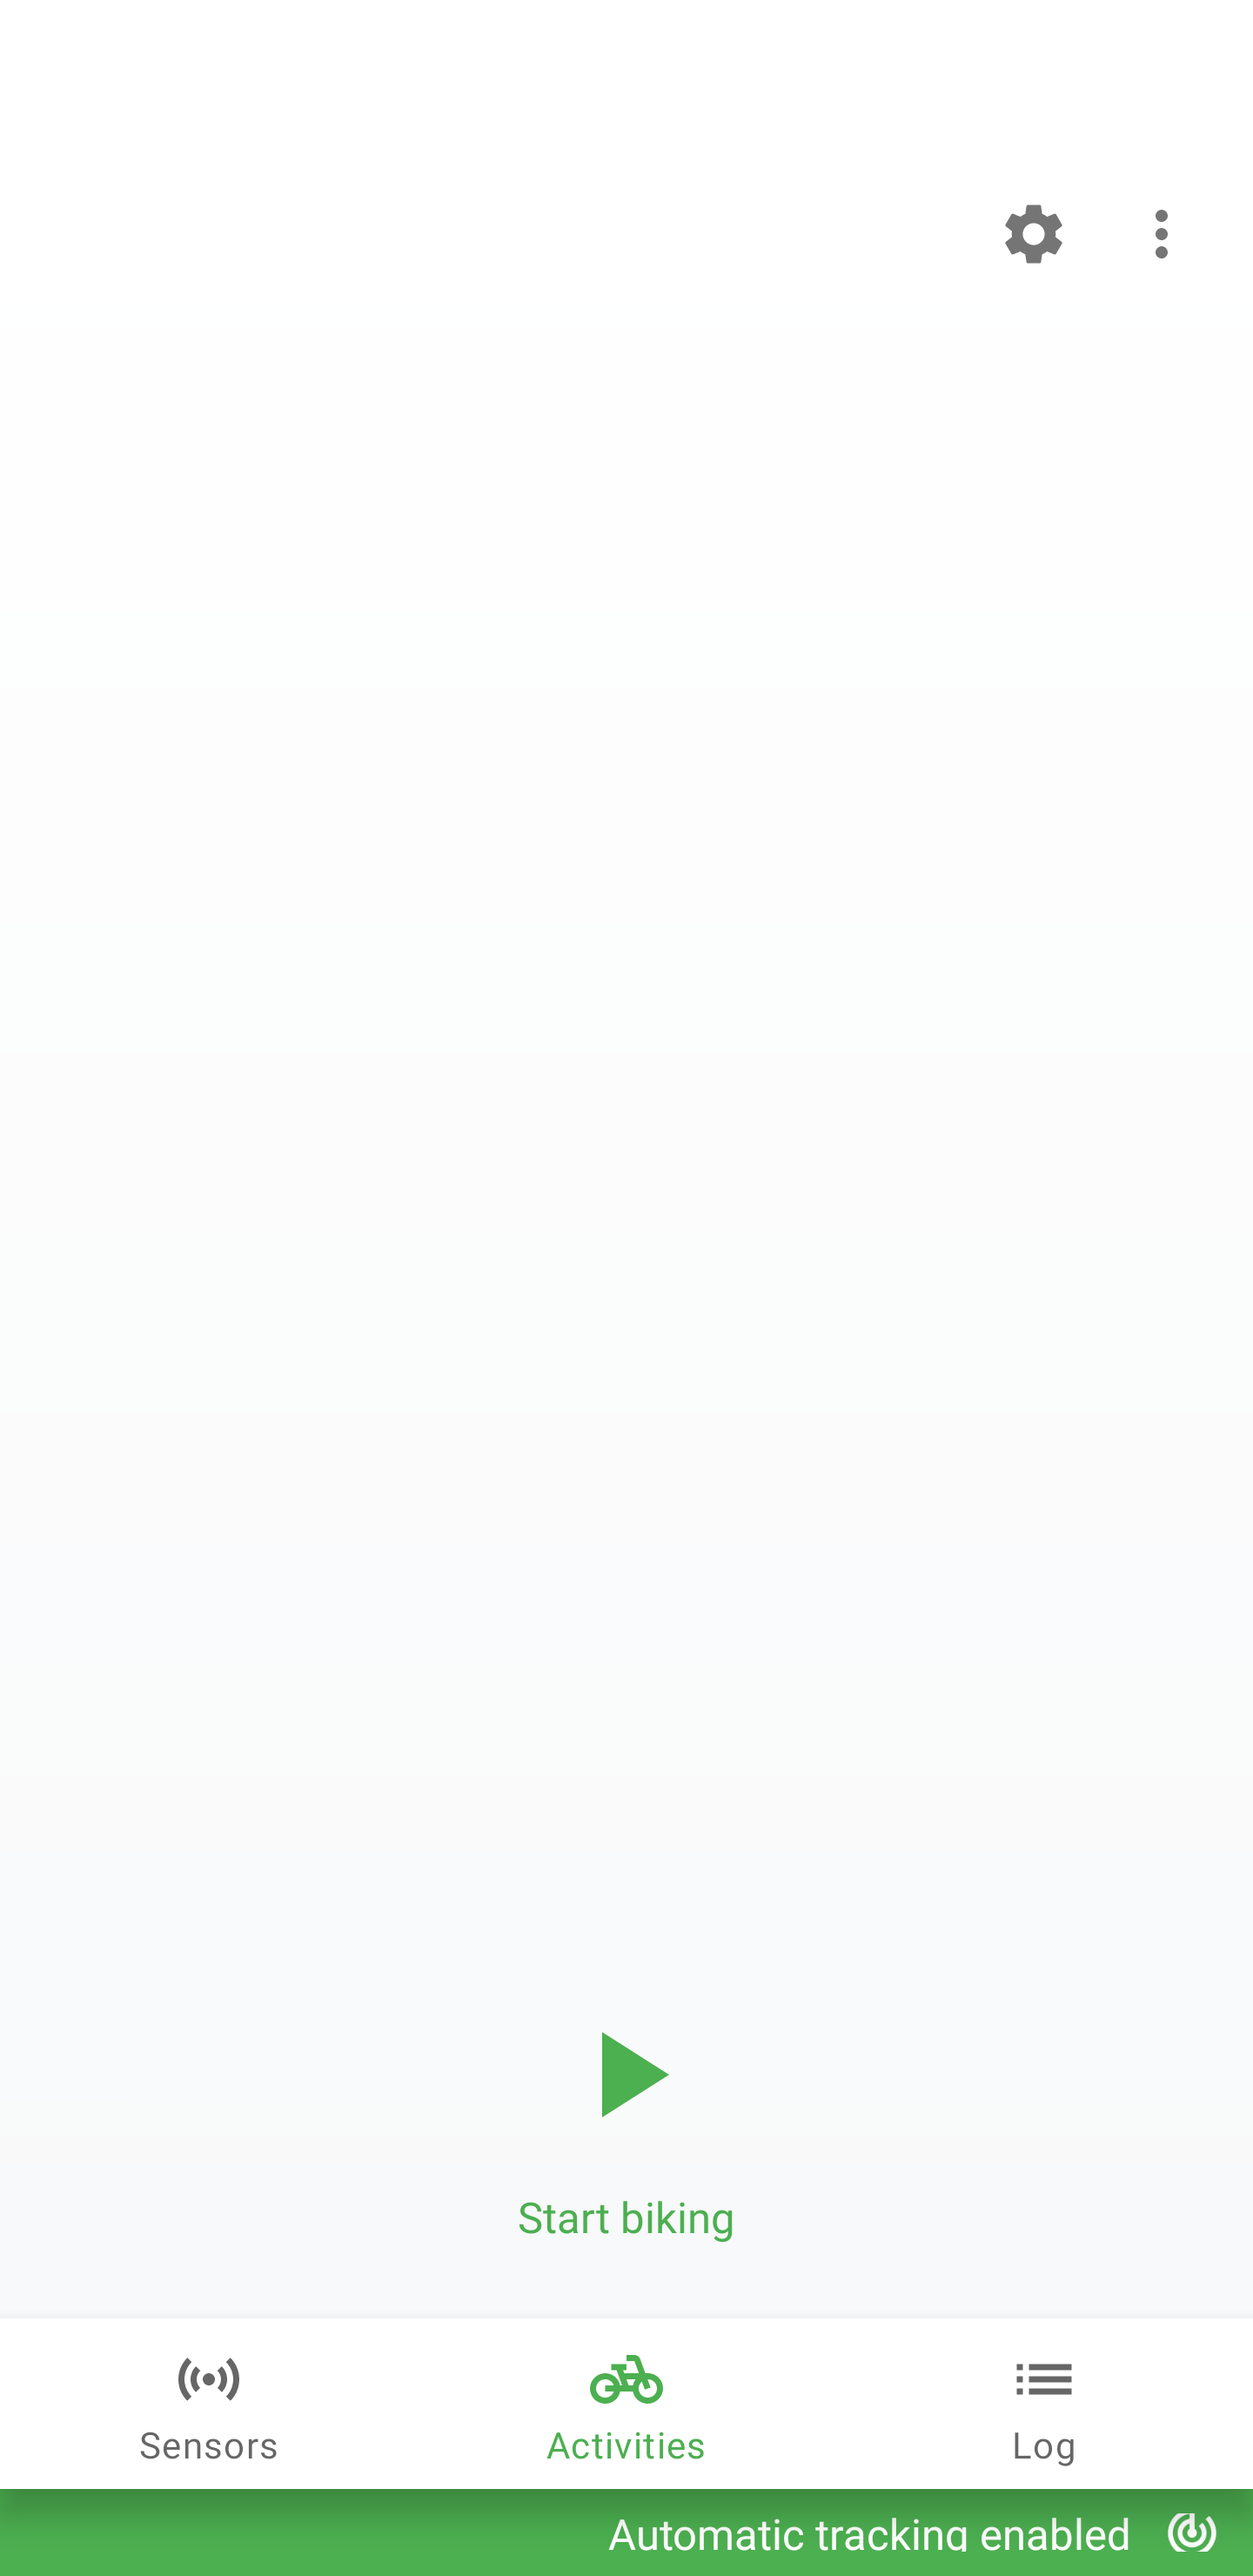
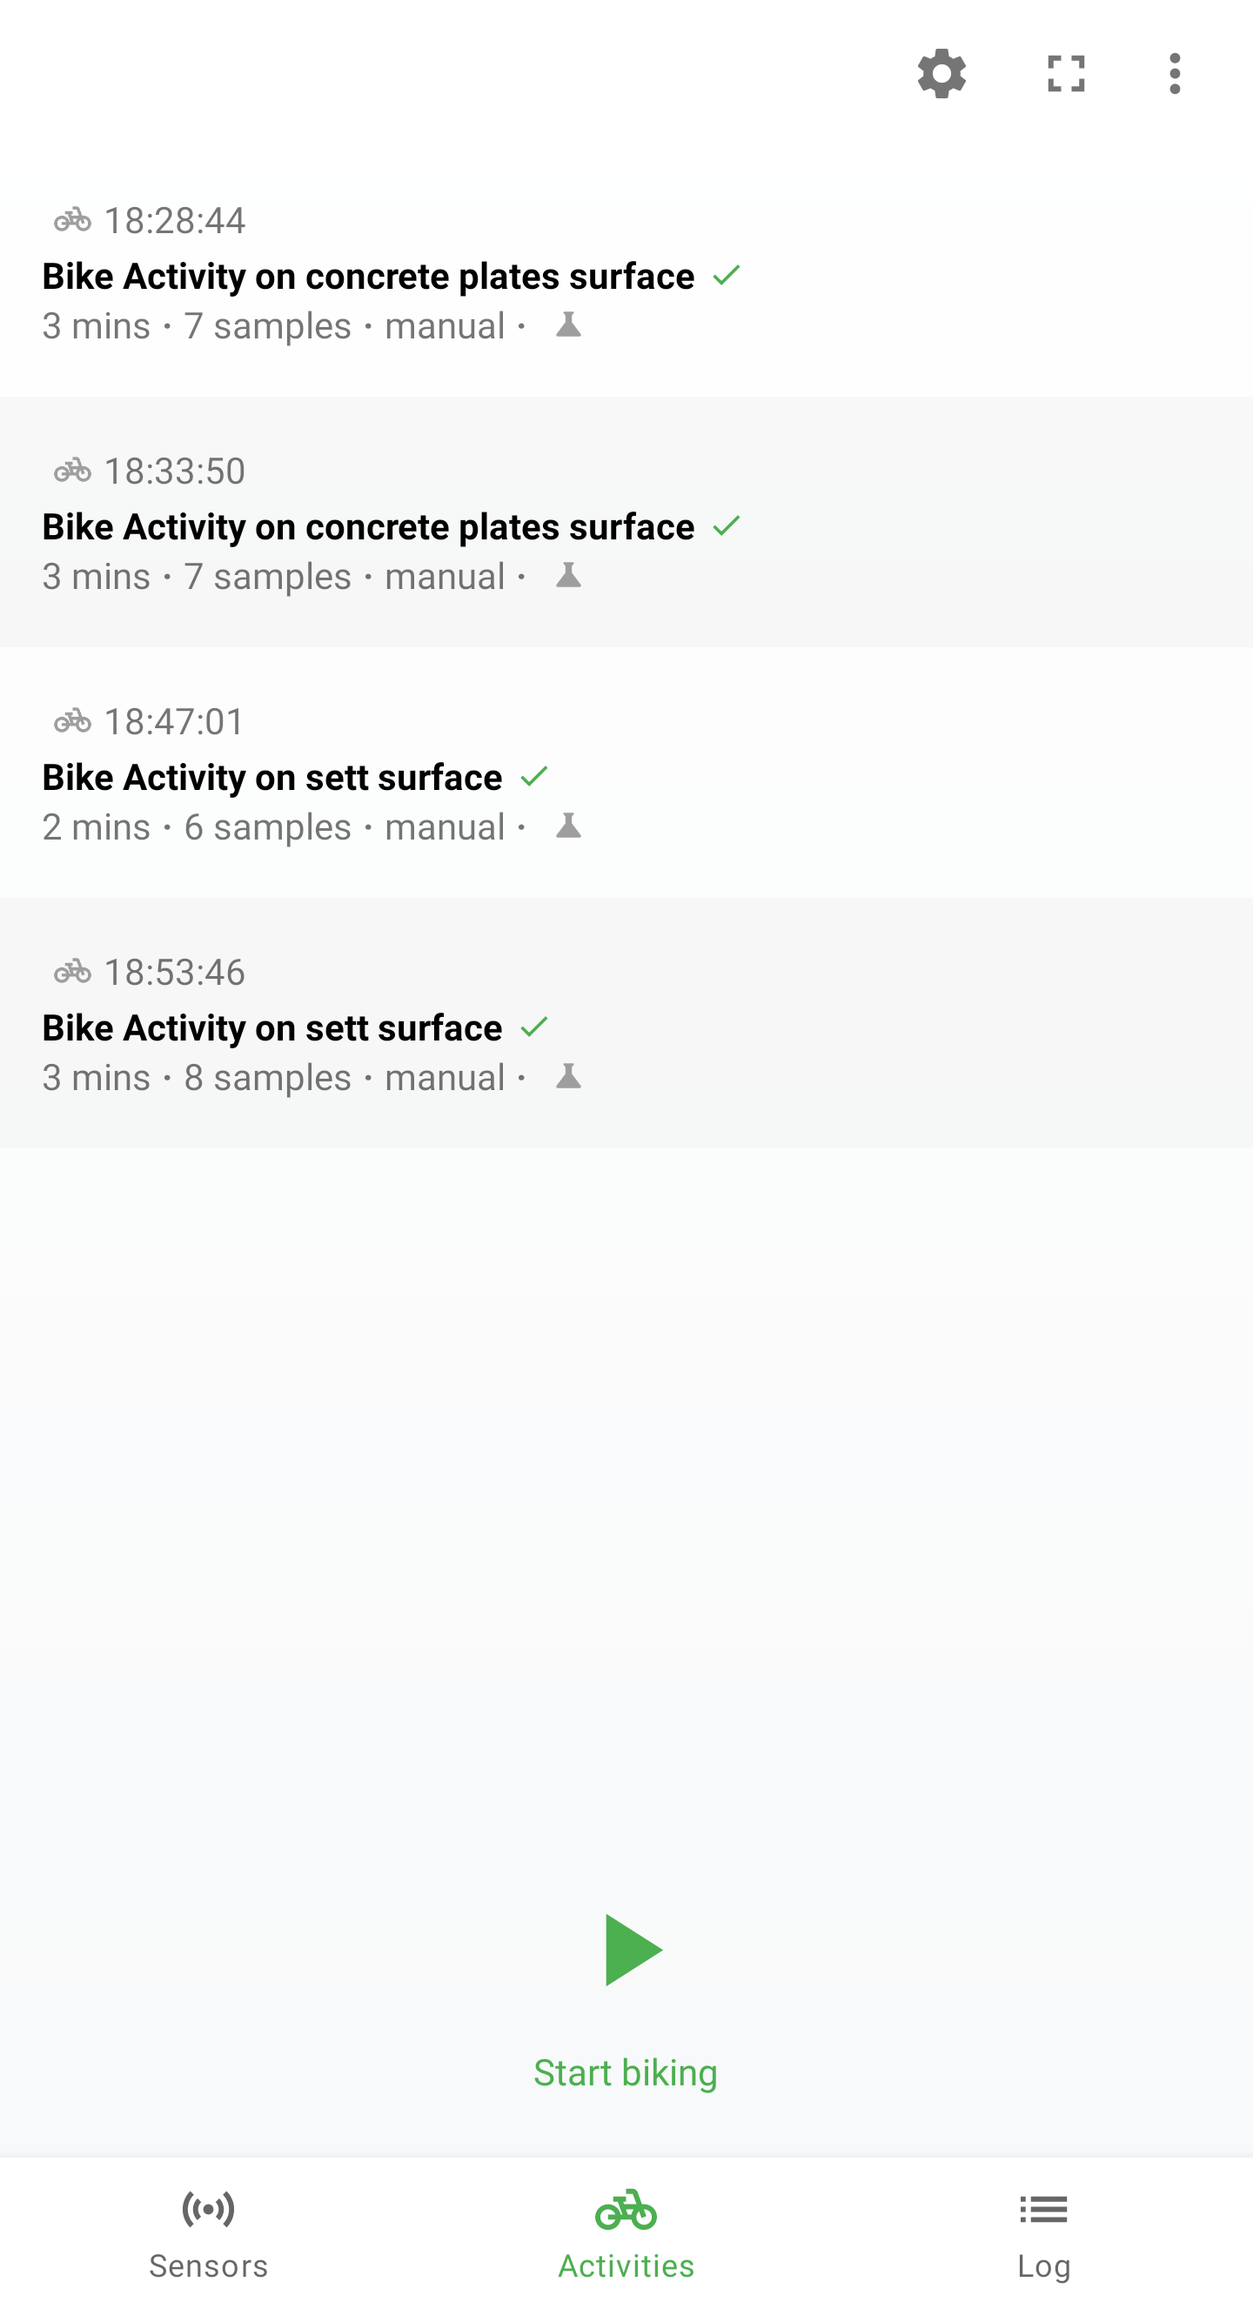
docs: update screenshots

diff --git a/README.md b/README.md
@@ -57,46 +57,48 @@ There are two ways to install the app - from the bundled releases and from your 
 
 ## Usage
 
-On first start-up of the app you will be prompted to give permission to track location and activity transition (this is used for _automatic tracking mode_). Click _CONTINUE_ in both cases and allow both _while using the app_. After that you will see the main screen.
+On first start-up of the app you will be prompted to give permission to track location and activity transition (this is used for _automatic tracking mode_). Click _CONTINUE_ in both cases and allow both _while using the app_. After that you will see the main screen. 
+From the main screen other screens like the _sensors screen_ and the _log screen_ can be reached by swiping left or right. The _settings screen_ is displayed after clicking the settings icon in the menu.
 
 <img src=".screenshots/screenshot-01-permission-location.png" width="300">  |  <img src=".screenshots/screenshot-02-permission-activity-transitions.png" width="300">  |  <img src=".screenshots/screenshot-03-main-screen.png" width="300">
 :-------------------------:|:-------------------------:|:-------------------------:
 Permission rationale location | Permission rationale activity transition | Main screen
 
+Both sensors screen and log screen can help you understand measured values and actions performed by the app.
+On the sensors screen currently measured values are displayed. The log screen displays logging information about the app status. In the settings screen you can define preferred phone position and bike type. Furthermore you can decide whether tracking shall be started and stopped automatically. Also measurement intervals and sample sizes can be specified.
 The app can track biking data in two modes
-* **automatic tracking** <sup>experimental</sup> will automatically start and stop bike activity tracking when you start or stop riding a bike 
-* **manual tracking** allows you to start and stop a bike activity whenever you want (this will disable automatic tracking)
+* **automatic tracking** <sup>experimental</sup> will automatically start and stop bike activity tracking when you start or stop riding a bike
+* **manual tracking** allows you to start and stop a bike activity whenever you want
 
-You can switch between the two modes in the settings menu which you can reach by clicking on the gear symbol in the top right corner.
-
-* Start a bike activity (either automatically by starting to ride a bike if you used automatic tracking or manually by clicking the play button) which will add an entry for the ongoing tracking to the activity list
-
-> **Important:** in order to train the model pure data is needed. Try to ride on one surface type only when tracking a bike activity. Stop and restart the activity tracking when you switch the surface type. (Later you can set the surface type for each sample individually which might become cumbersome if you need to do it for too many samples) 
-
-* Stop the bike activity (either by stopping to ride your bike if you used automatic tracking and/or by clicking the stop button)
-
-<img src=".screenshots/screenshot-04-settings.png" width="300">  |  <img src=".screenshots/screenshot-05-ongoing-activity.png" width="300">  |  <img src=".screenshots/screenshot-06-completed-activity.png" width="300">
+<img src=".screenshots/screenshot-04-sensors.png" width="300">  |  <img src=".screenshots/screenshot-05-log.png" width="300">  |  <img src=".screenshots/screenshot-06-settings.png" width="300">
 :-------------------------:|:-------------------------:|:-------------------------:
-Settings screen | Ongoing activity tracking | Completed activity tracking
+Sensors screen | Log screen | Settings screen
 
-* Click on an activity in the list to get to the activity details screen in which you can see your bike activity on a map and a list of tracked samples
-* Click on any sample in the list to highlight it on the map
-* Next to a highlighted sample the _surface type_ icon appears which lets you set the surface type for an individual sample
+On the main screen you can can start manual tracking by clicking the green arrow button. 
 
-<img src=".screenshots/screenshot-07-activity-details.png" width="300">  |  <img src=".screenshots/screenshot-08-activity-sample-highlight.png" width="300">
+> **Important:** in order to train the model pure data is needed. Try to ride on one surface type only when tracking a bike activity. Stop and restart the activity tracking when you switch the surface type. (Later you can set the surface type for each sample individually which might become cumbersome if you need to do it for too many samples)
+
+In order to ensure a safe right without distractions you can switch to head-up mode by clicking on the square icon in the menu.
+In head-up mode your current speed, the current bumpiness of the surface and the collected samples are displayed. 
+The color of the screen indicates how bumpy the surface currently is.
+You can return from head-up mode and start or stop tracking by using the buttons on the bottom.
+
+<img src=".screenshots/screenshot-07-hud-smooth.png" width="300">  |  <img src=".screenshots/screenshot-08-hud-intermediate.png" width="300">  |  <img src=".screenshots/screenshot-09-hud-rough.png" width="300">
+:-------------------------:|:-------------------------:|:-------------------------:
+HUD screen with smooth surface | HUD screen with intermediate surface | HUD screen with rough surface
+
+Once you completed the tracking of a bike activity you can see the details by clicking on its list entry on the main screen. From here you can specify the surface type and the smoothness type of the bike activity. Phone position and bike type are prefilled with the values you specified in the settings screen. 
+
+<img src=".screenshots/screenshot-10-activity-details.png" width="300">  |  <img src=".screenshots/screenshot-11-surface-type.png" width="300">  |  <img src=".screenshots/screenshot-12-smoothness-type.png" width="300">
+:-------------------------:|:-------------------------:|:-------------------------:
+Activity details | Surface type selection | Smoothness type selection
+
+The surface type for the bike activity you can overridden for single parts. You can do so by selecting a sample from the list and click the dashed button next to it.
+After setting all fields you can upload your tracking results by hitting the green floating action button.
+
+<img src=".screenshots/screenshot-13-activity-details-focus.png" width="300"> | <img src=".screenshots/screenshot-14-activity-upload.png" width="300">
 :-------------------------:|:-------------------------:
-Activity details screen | Highlighted activity sample
-
-* Click on _Surface type_ to select the surface you did the ride on
-* Click on _Smoothness type_ to evaluate the quality of the bike path surface
-* Click on _Phone position_ to select where your phone has been during the ride (not in screenshot)
-* Click on _Bike type_ to select your bike type (not in screenshot)
-
-After all four things are selected click on the floating action button in the bottom right corner in order to upload you activity data. An _Uploaded_ badge will appear next to the title indicating that the upload was successful. The data includes a user ID that identifies you anonymously.
-
-<img src=".screenshots/screenshot-09-surface-type.png" width="300">  |  <img src=".screenshots/screenshot-10-smoothness-type.png" width="300">  |  <img src=".screenshots/screenshot-11-uploaded.png" width="300">
-:-------------------------:|:-------------------------:|:-------------------------:
-Surface type selection | Smoothness type selection | Uploaded activity
+Activity details with focus | Activity upload
 
 ## Roadmap
 
